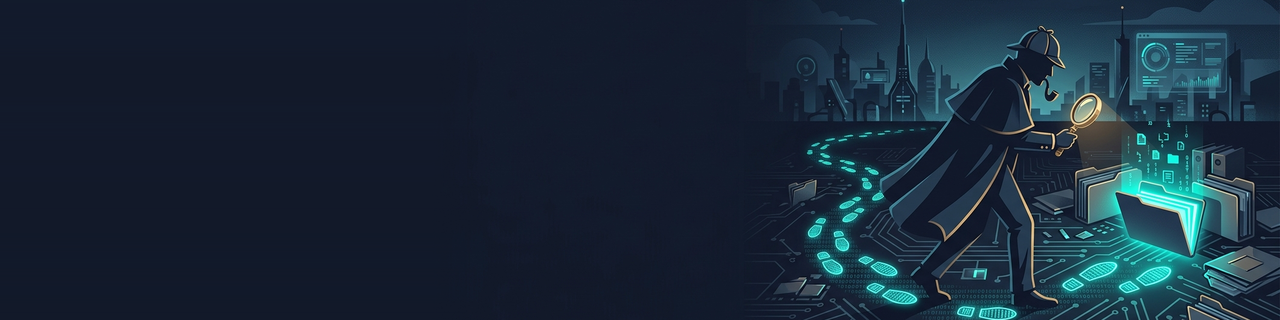
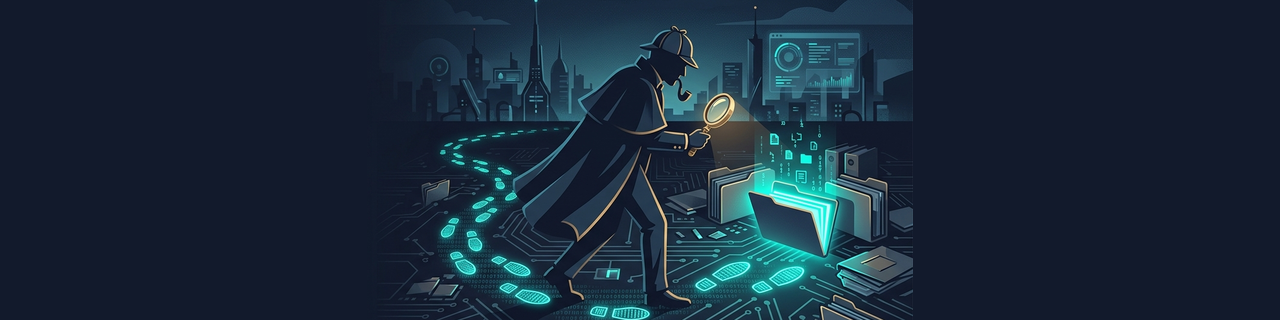
feat(extension-ui): bannière recentrée avec bords estompés
Recadrage du contenu de banner.png au centre (personnage/scene) et
fondu des 200px de bordure gauche/droite vers le fond navy pour une
meilleure lisibilité sur fonds clairs et foncés. La bannière est
aussi ajoutée en en-tête du README racine pour GitHub.

Generated with [Devin](https://devin.ai)

diff --git a/README.md b/README.md
@@ -1,3 +1,7 @@
+<p align="center">
+  <img src="extension/media/banner.png" alt="Everything Search — Sherlock traquant vos fichiers" width="100%">
+</p>
+
 # everything-search MCP
 
 > Recherche de fichiers **instantanée sur tout le PC** pour agents IA —
